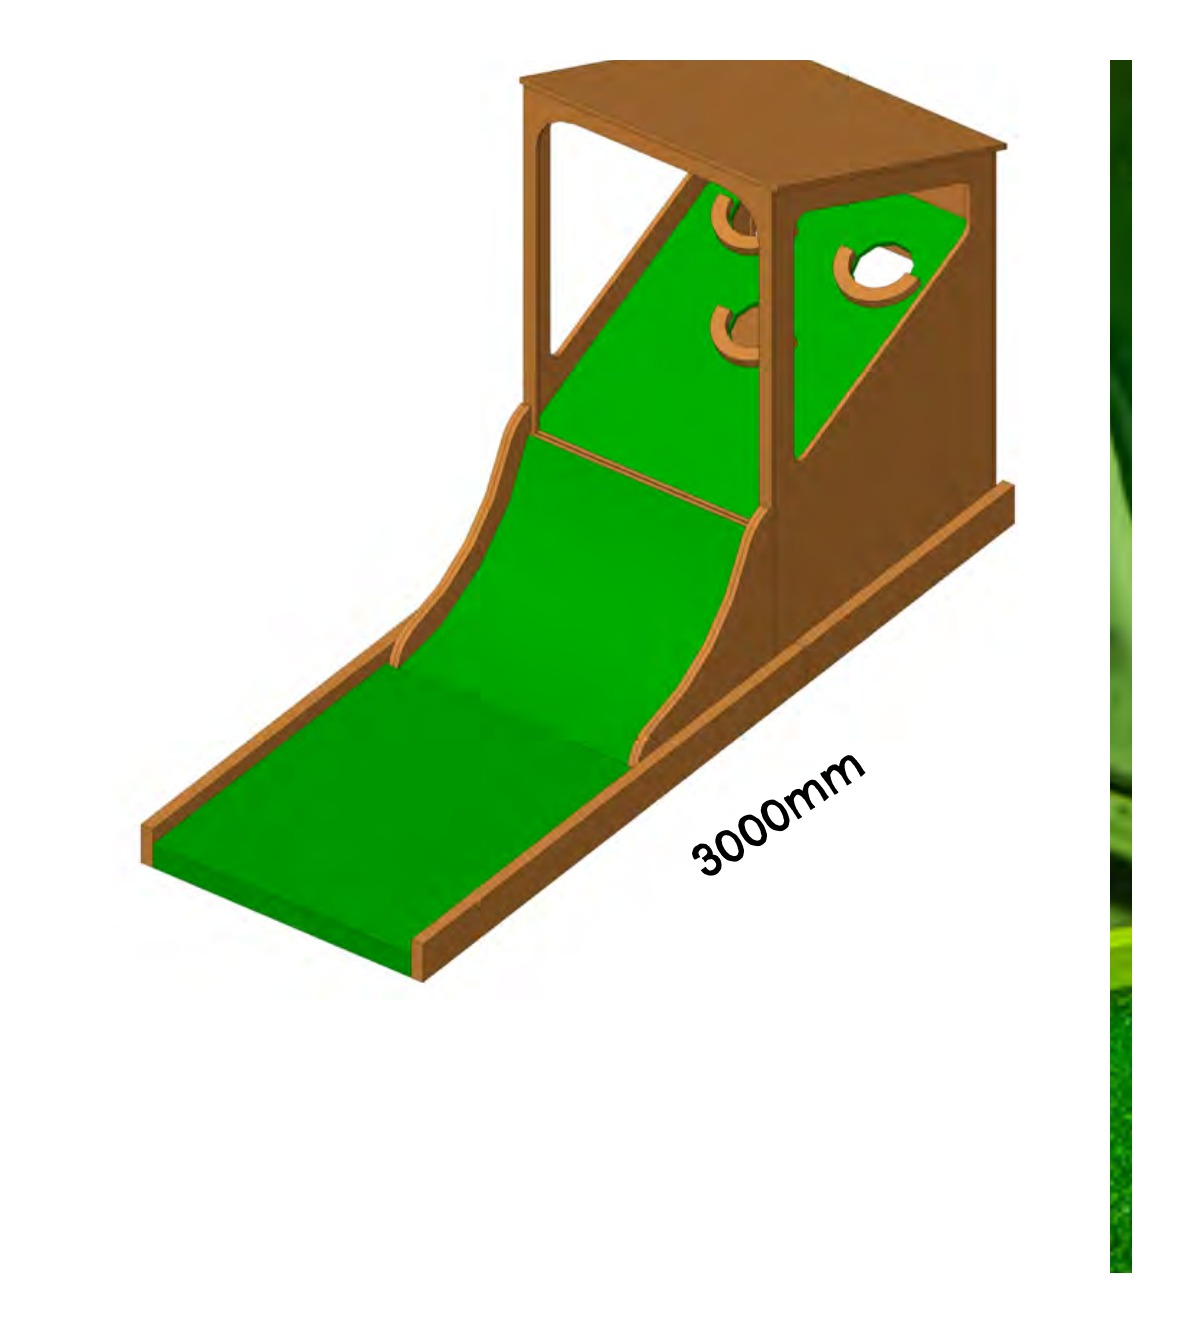
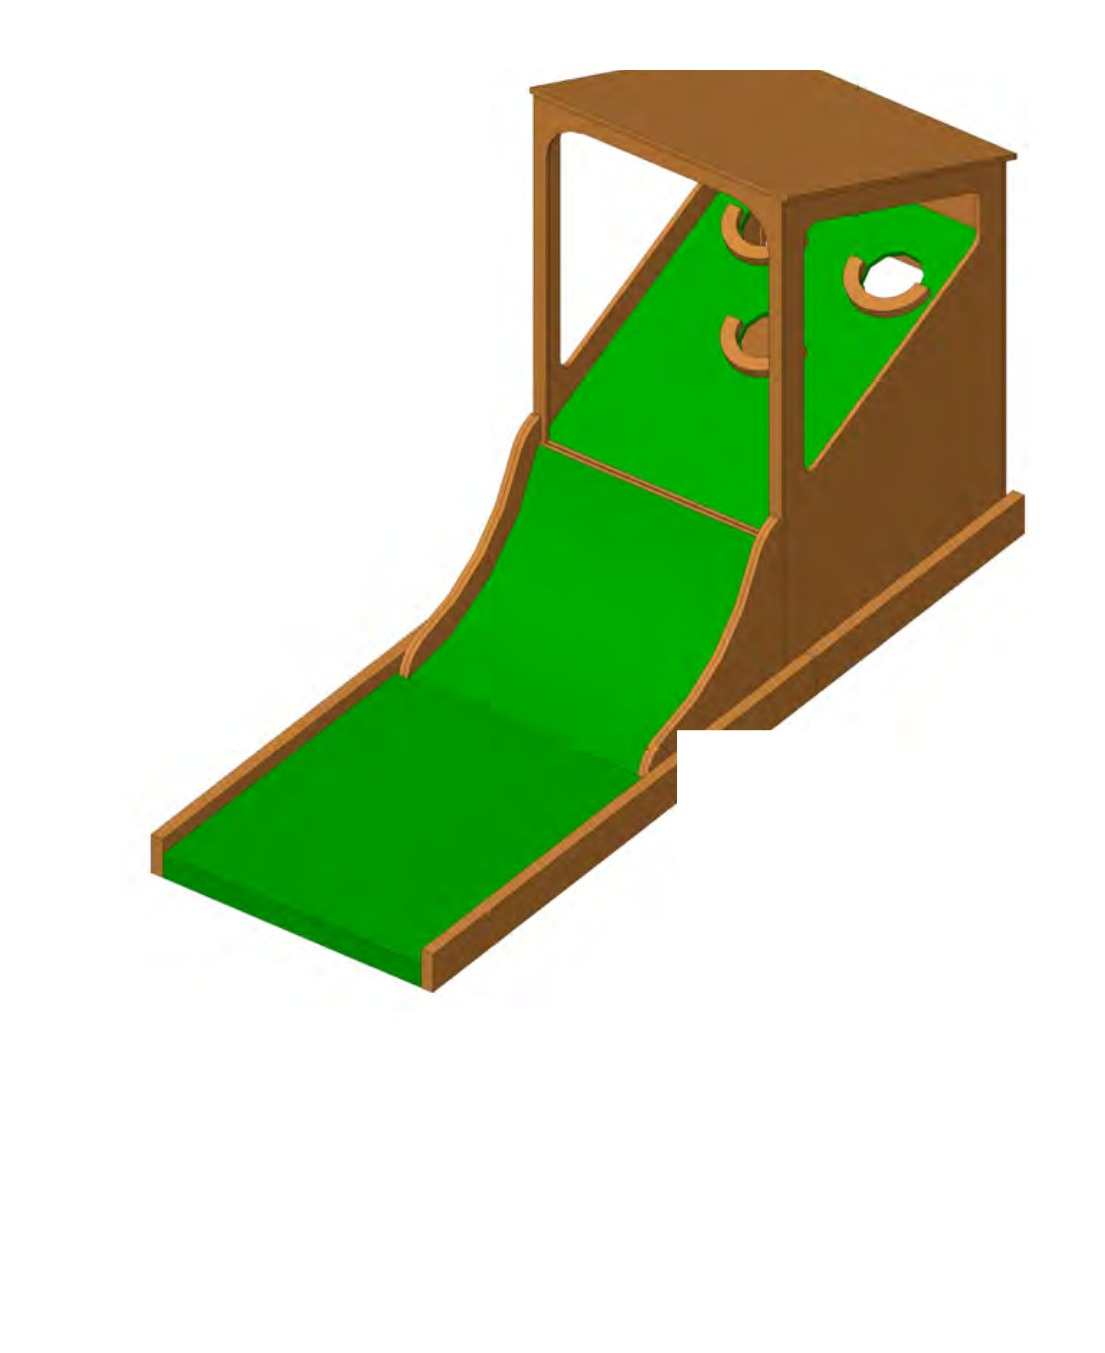
Live Nation: London Course rebuilt as 9 labelled holes + Borough history on Intro + dimension labels stripped from 3D renders
- Intro body now includes the Borough Market history paragraph
  (4 years in operation, Plonk design, graffiti crew: Tiser, Shuck 1,
  Nacho Welles and the Ghostwriters).
- The London Course tab is now a 9-hole labelled grid (image + HOLE N
  + name + copy) matching the reference sheet selections. Removed
  5 crossed-off photos from the gallery, added new Hole 4 Tower
  Bridge image.
- Nine Holes intro shortened to the supplied wording.
- All 9 hole 3D renders re-cropped: dimension labels redacted via
  fitz before render, tighter 27% column (22% on page 10) to stop
  themed-photo bleed. Dimensions will live on a future install page.

Changed region(s): [[0.0923, 0.0308, 0.9538, 0.9535]]

diff --git a/src/presentations.js b/src/presentations.js
@@ -21,36 +21,78 @@ export const PRESENTATIONS = {
       headline: 'An adventure golf course for Live Nation',
       body: `Wacky Works designs and builds immersive crazy golf courses — modular, shippable and hand-finished.
 
-This pack walks through what a 9-hole course for your venue could look like: a previous build we delivered under Plonk Golf at Borough, the nine obstacles earmarked for your course, how it ships and installs, and the costs.
+This course has been in operation at our Borough Market venue for over four years. It has entertained many Londoners and remains a great working, playable piece of art. The course was designed by Plonk and painted by one of London's top graffiti crews — including works by Tiser, Shuck 1, Nacho Welles and other members of the Ghostwriters. They will be employed again for the redux and any additional work added to the course, making this a truly unique London-themed experience.
 
-Every figure, image and paragraph in this pack can be tailored to your brief.`,
+This pack walks through the nine themed holes, how it ships and installs, and the costs.`,
     },
 
     photos: {
       intro:
-        'A previous 9-hole course we designed and built at Borough — the same team, same build quality, same attention to every painted detail. Click any image to view full-size.',
-      // 12 Borough photos copied in from the archive. Shown in a
-      // responsive gallery; founder can add / reorder / swap via
-      // inline edit mode.
-      images: [
-        borough('MPL_294A9363_Web.jpg'),
-        borough('294A8741_web.jpg'),
-        borough('MPL_294A9328_Web.jpg'),
-        borough('294A8734_web.jpg'),
-        borough('294A7912_web.jpg'),
-        borough('MPL_294A9392_Web.jpg'),
-        borough('294A8725_web.jpg'),
-        borough('294A8728_web.jpg'),
-        borough('294A7745_web_3.jpg'),
-        borough('294A7835_web_2.jpg'),
-        borough('294A7878_web.jpg'),
-        borough('MPL_294A9417_Web.jpg'),
+        'Nine themed holes, as installed at Plonk Borough. Click any image to view full-size.',
+      // 9 themed holes shown with their on-site photo + body copy.
+      // The photo swap for Hole 4 is a new image; founder can
+      // reorder / swap any image via the inline editor.
+      holes: [
+        {
+          n: 1,
+          name: 'Eel & Mushy Pea',
+          image: borough('294A7835_web_2.jpg'),
+          copy: 'Based on the traditional London food of eels and peas. Players putt around a 60cm-tall eel loop, pop over the pea hill and land near the hole.',
+        },
+        {
+          n: 2,
+          name: 'Thames jump · Tower of London',
+          image: borough('294A7745_web_3.jpg'),
+          copy: 'Players jump over the Thames and into the Tower of London. Lucky enough to ring the crown on the way through and they earn bonus shots.',
+        },
+        {
+          n: 3,
+          name: 'Borough Market',
+          image: borough('294A7878_web.jpg'),
+          copy: 'Players putt around Borough Market. A ½-pipe hole where players have to putt carefully up and down to reach the hole — or they will find themselves having to play a few more strokes.',
+        },
+        {
+          n: 4,
+          name: 'Tower Bridge',
+          image: borough('hole-4-tower-bridge.webp'),
+          copy: 'Players have to putt along and across Tower Bridge. Fall off along the way and they take a penalty. Themed with Tower Bridge sculptures and colour-coded astro.',
+        },
+        {
+          n: 5,
+          name: 'Love Guns · HMS Belfast',
+          image: borough('294A8728_web.jpg'),
+          copy: 'Players putt up a big ramp and load the cannons of the Belfast. Then pull back on a pinball-style launcher and try to hit bonuses to clear the mini-game and get back to the fairway to finish.',
+        },
+        {
+          n: 6,
+          name: 'London Eye',
+          image: borough('294A8725_web.jpg'),
+          copy: 'Players putt around a 1.2m-tall London Eye-themed loop. Hit it with enough power and the ball rolls around a Southbank skatepark-themed ramp down to the finishing hole.',
+        },
+        {
+          n: 7,
+          name: 'Red Phone Box',
+          image: borough('MPL_294A9363_Web.jpg'),
+          copy: 'Players hit the ball up a red phone box. The ball then rolls down a ball run and lands on a sloped, tricky fairway to putt out.',
+        },
+        {
+          n: 8,
+          name: 'Thames Barrier',
+          image: borough('MPL_294A9392_Web.jpg'),
+          copy: 'Players swoosh around a tidal wave taking over the Thames Barrier. Playing off the bumpers, they navigate the treacherous waters to reach the hole. Thick astro and bumpers can get in their way.',
+        },
+        {
+          n: 9,
+          name: 'Market Stall / Tube Train',
+          image: borough('MPL_294A9417_Web.jpg'),
+          copy: 'Players putt up into a market stall. The hole can be re-themed as a tube train with underground seating material cladding the inside. Land the ball into a catcher hole for a bonus; miss and the ball rolls back out to shoot again.',
+        },
       ],
     },
 
     holes: {
       intro:
-        'Nine interactive holes tailored for your space. Each piece is a proven design from our catalogue — the 3D renders below show the basic form of each hole. Final theming and finishes are confirmed at design stage.',
+        'See below the plain 3D models of the holes. These are from our catalogue and give you a basic concept of how the holes will play.',
       items: [
         {
           n: 1,

diff --git a/src/Presentation.jsx b/src/Presentation.jsx
@@ -327,6 +327,7 @@ function IntroTab({ slug, fallback, onImage }) {
 
 function PhotosTab({ slug, fallback, onImage }) {
   const c = useContent()
+  const holes = fallback.photos.holes || []
   return (
     <div>
       <SectionHead
@@ -336,23 +337,56 @@ function PhotosTab({ slug, fallback, onImage }) {
         introKey={`present.${slug}.photos.intro`}
         introFallback={fallback.photos.intro}
       />
-      <div style={{ display: 'grid', gridTemplateColumns: 'repeat(auto-fill, minmax(280px, 1fr))', gap: 14 }}>
-        {fallback.photos.images.map((src, i) => {
-          const key = `present.${slug}.photos.item_${i + 1}`
-          const raw = c(key, src)
+      <div style={{ display: 'grid', gridTemplateColumns: 'repeat(auto-fill, minmax(300px, 1fr))', gap: 20 }}>
+        {holes.map((h) => {
+          const imageKey = `present.${slug}.photos.hole_${h.n}.image`
+          const nameKey = `present.${slug}.photos.hole_${h.n}.name`
+          const copyKey = `present.${slug}.photos.hole_${h.n}.copy`
+          const raw = c(imageKey, h.image)
           const d = parseImg(raw)
           return (
-            <figure
-              key={i}
-              onClick={() => onImage(d.src)}
-              style={{ cursor: 'zoom-in', borderRadius: 12, overflow: 'hidden', border: '1px solid var(--line)', background: 'var(--ink-2)' }}
+            <div
+              key={h.n}
+              className="card"
+              style={{
+                background: 'var(--ink-2)',
+                border: '1px solid var(--line)',
+                borderRadius: 12,
+                overflow: 'hidden',
+                display: 'flex',
+                flexDirection: 'column',
+              }}
             >
-              <EditableImage k={key} aspect="3/2" currentValue={raw}>
-                <div style={{ aspectRatio: '3 / 2', overflow: 'hidden' }}>
+              <div
+                style={{ cursor: 'zoom-in', aspectRatio: '3 / 2', background: 'var(--ink-3)', overflow: 'hidden' }}
+                onClick={() => onImage(d.src)}
+              >
+                <EditableImage k={imageKey} aspect="3/2" currentValue={raw}>
                   <img src={d.src} alt="" style={imgStyle(d)} />
+                </EditableImage>
+              </div>
+              <div style={{ padding: '14px 18px 18px', display: 'flex', flexDirection: 'column', gap: 8, flex: 1 }}>
+                <div style={{ display: 'flex', alignItems: 'baseline', gap: 10 }}>
+                  <span
+                    className="display"
+                    style={{
+                      fontSize: 12,
+                      color: 'var(--lime)',
+                      letterSpacing: '0.14em',
+                      whiteSpace: 'nowrap',
+                    }}
+                  >
+                    Hole {h.n}
+                  </span>
+                  <span style={{ fontSize: 15, color: 'var(--cream)', fontWeight: 600, lineHeight: 1.2 }}>
+                    <Editable k={nameKey}>{c(nameKey, h.name)}</Editable>
+                  </span>
                 </div>
-              </EditableImage>
-            </figure>
+                <div style={{ fontSize: 13.5, color: 'var(--cream-dim)', lineHeight: 1.55 }}>
+                  <Editable k={copyKey} multiline>{c(copyKey, h.copy || '')}</Editable>
+                </div>
+              </div>
+            </div>
           )
         })}
       </div>
